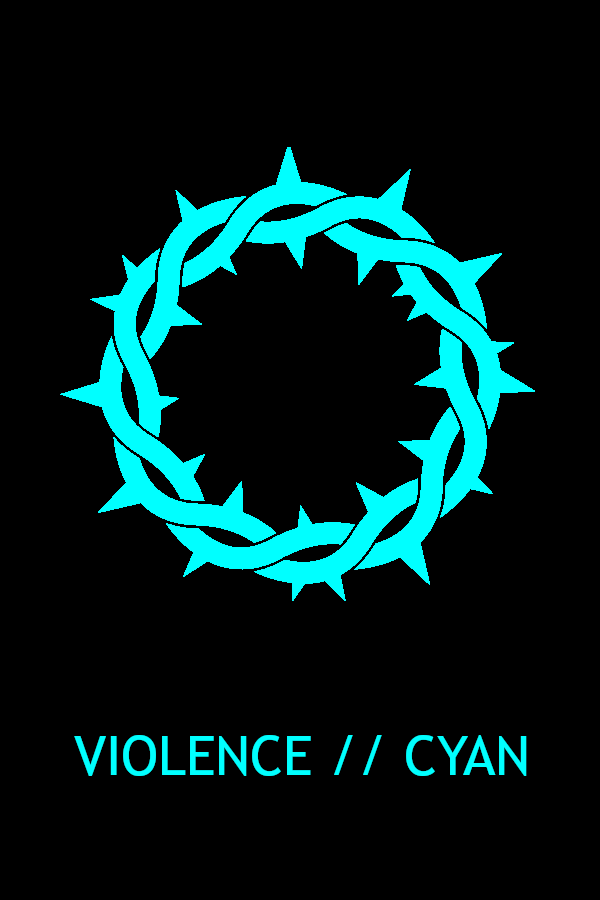
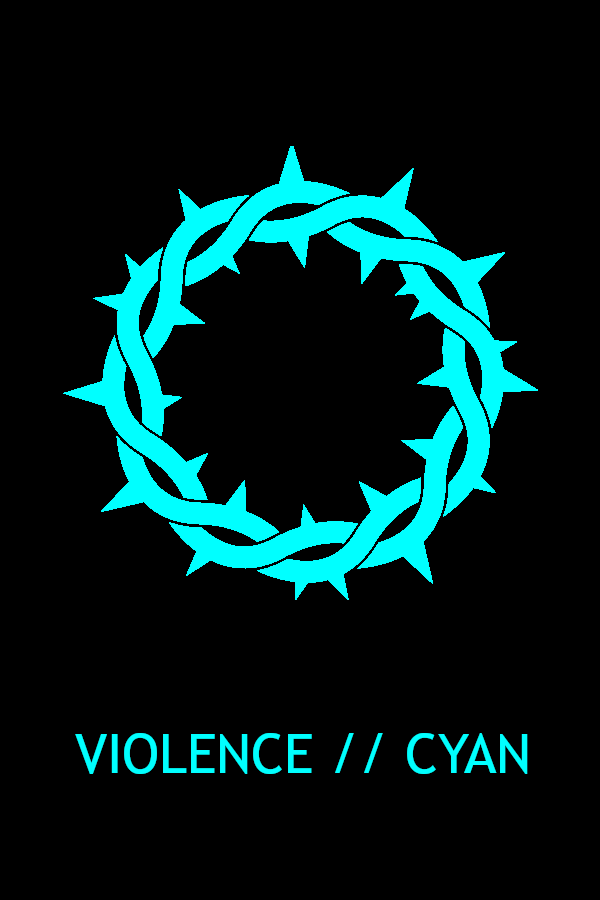
Quartz sync: Jul 4, 2026, 9:44 PM

diff --git a/content/books.md b/content/books.md
@@ -9,15 +9,16 @@ tags:
 <div class="book-grid">
 
 <a href="/books/yellow" class="book-cover"
-   style="background-image:url('/assets/book_covers/yellow.gif');background-position:center;background-size:cover;background-repeat:no-repeat;border-color:rgba(255,255,0,1);">
+   style="background-image:url('/assets/book_covers/yellow.png');background-position:center;background-size:cover;background-repeat:no-repeat;border-color:rgba(255,255,0,1);">
 </a>
 
 <a href="/books" class="book-cover"
-   style="background-image:url('/assets/book_covers/cyan.gif');background-position:center;background-size:cover;background-repeat:no-repeat;border-color:rgba(0,255,255,1);">
+   style="background-image:url('/assets/book_covers/cyan.png');background-position:center;background-size:cover;background-repeat:no-repeat;border-color:rgba(0,255,255,1);">
 </a>
 
 <a href="/books" class="book-cover"
-   style="background:rgba(95,96,95,0.2);border-color:rgba(35,35,35);">✖</a>
+   style="background-image:url('/assets/book_covers/magenta.png');background-position:center;background-size:cover;background-repeat:no-repeat;border-color:rgba(255,0,255,1);">
+</a>
 
 <a href="/books" class="book-cover"
    style="background:rgba(95,96,95,0.2);border-color:rgba(35,35,35);">✖</a>
